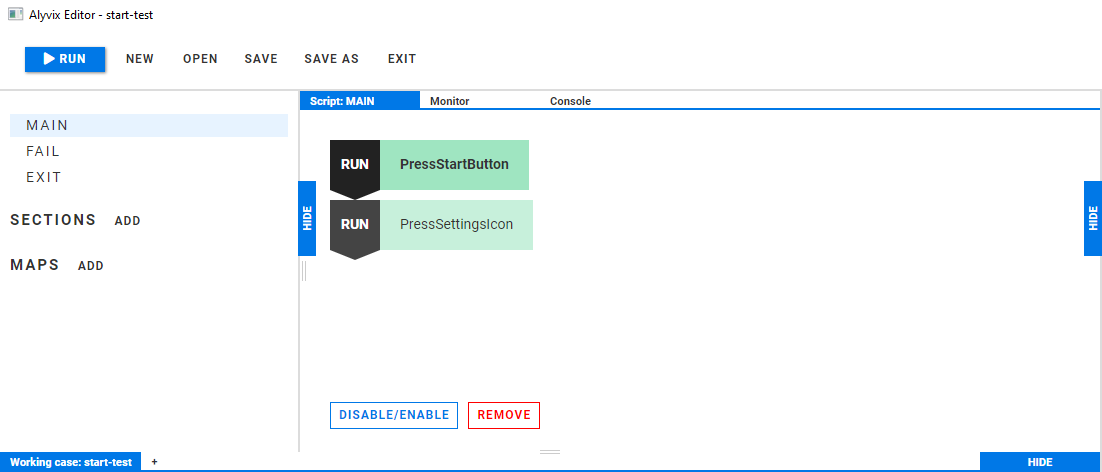
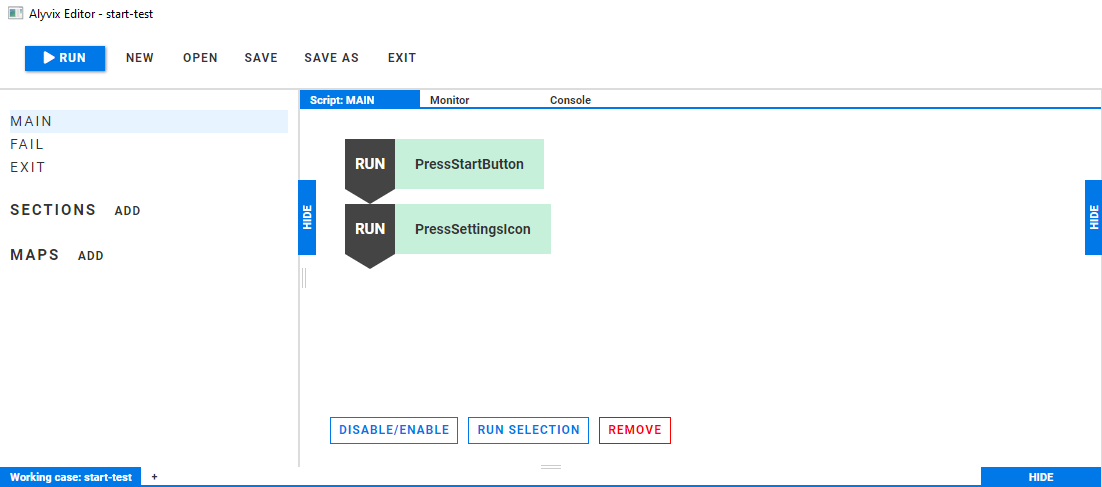
Update the screenshots in the first part of the Test Case Building section for 3.1.0.

diff --git a/test_case_building/editor_interface_overview.rst b/test_case_building/editor_interface_overview.rst
@@ -1,6 +1,6 @@
 :author: Charles Callaway
 :date: 07-01-2020
-:modified: 25-05-2020
+:modified: 10-06-2020
 :tags: editor, gui, overview
 :lang: en-US
 :translation: false
@@ -34,7 +34,7 @@ use the following command:
 
    C:\Alyvix\testcases> alyvix_editor -f <alyvix-file-name>
 
-This loads the Editor interface, which has the following elements:
+This loads the Editor interface, whose layout has the following elements:
 
 .. image:: images/ae_full_interface_numbered.png
    :class: image-boxshadow
@@ -46,9 +46,9 @@ This loads the Editor interface, which has the following elements:
 #. The Editor panel, consisting of the
    :ref:`Script Management panel <alyvix_editor_script_mgmt_top>` (left)
    and the :ref:`Scripting panel <alyvix_editor_scripting_panel_top>` (right)
-#. The :ref:`Selector <alyvix_selector_interface_top>` pane, where :glossdef:`test case objects`
+#. The :ref:`Selector <alyvix_selector_interface_top>` pane, containing :glossdef:`test case objects`
    :rawhtml:`<a href="../glossary.html#glossary-test-case-object"><i class="fa fa-tiny fa-question-circle"></i></a>`
-   can be dragged from and then dropped into the Scripting panel
+   that can be dragged to the Scripting panel
 #. The :ref:`Designer <alyvix_designer_interface_overview>` pane, which shows the details of
    the currently selected test case object
 
@@ -77,20 +77,21 @@ This loads the Editor interface, which has the following elements:
    that can be used as subroutines within any of the principal scripts
 #. The :ref:`Maps <alyvix_editor_interface_maps>` list, containing user-defined :glossdef:`maps`
    :rawhtml:`<a href="../glossary.html#glossary-map"><i class="fa fa-tiny fa-question-circle"></i></a>`
-   where a script can be called multiple times, once for each key in the map that is then passed
-   as an argument to the named script
+   (consisting of keys and one or more values for each key) that can be used either by a script
+   via :ref:`looping <alyvix_editor_scripting_node_expressions>`, or to insert values in a
+   :ref:`String <alyvix_designer_options_strings_top>` field.
 #. The scripting mode selector, containing the :guilabel:`Script` tab to
    :ref:`display the currently selected script or map <alyvix_editor_scripting_panel_top>`,
    the :guilabel:`Monitor` tab to
-   :ref:`show the screen capture <alyvix_editor_interface_monitor>`
-   of Selector's current test case object, and the :guilabel:`Console` tab to
-   :ref:`show the output <alyvix_editor_run_script>`
+   :ref:`show the screen capture <alyvix_editor_interface_monitor>` of Selector's current test case
+   object, and the :guilabel:`Console` tab to
+   :ref:`show the output along with any potential failure causes<alyvix_editor_run_script>`
    after running the test case script from within Alyvix Editor
-#. The :ref:`scripting panel <alyvix_editor_scripting_panel_top>`, which contains the individual
-   scripting elements, placed there using Selector
+#. The :ref:`scripting panel <alyvix_editor_scripting_panel_top>`, containing the individual
+   scripting nodes
 #. The script properties and actions, where you can enable, disable or remove individual script
    elements that have been dropped into the scripting panel
-#. Panel resizing controls allowing you to resize, minimize, or restore the three peripheral
+#. Panel resizing controls, allowing you to resize, minimize, or restore the three peripheral
    panels
 
 
@@ -125,7 +126,6 @@ This loads the Editor interface, which has the following elements:
 
 
 
-
 .. _alyvix_editor_run_script:
 
 .. topic::  Launching Alyvix Robot from Alyvix Editor
@@ -145,8 +145,15 @@ can be found in the :bbutton:`Console` tab at the top of Editor's
    :class: image-with-border
    :alt: The results of running the script in Alyvix Editor
 
-In addition, if the a failure was caused by a simple sequential scripting node, then the
+In addition, if a failure was caused by a simple sequential scripting node, then the
 annotated screenshot describing the failure will be displayed below the output in the
 Console tab.
+
+.. todo::  Example + description of when there is a failure
+
+   * Include screenshot
+   * Selection doesn't appear
+   * Subselection does appear with a box and "!"
+   * What about subselection on a different group, is the color different?
 
 Note that currently the verbosity level for Alyvix Robot cannot be set within Editor.

diff --git a/test_case_execution.rst b/test_case_execution.rst
@@ -1,6 +1,6 @@
 :author: Charles Callaway
 :date: 06-12-2019
-:modified: 26-05-2020
+:modified: 10-06-2020
 :tags: robot, execution, test cases
 :lang: en-US
 :translation: false
@@ -93,7 +93,7 @@ The following options are available:
 | Option        | Alias | Argument | Description                                               |
 +---------------+-------+----------+-----------------------------------------------------------+
 | -\\-args      | -a    | *<strs>* | Supply one or more strings to use in the                  |
-|               |       |          | :ref:`String <alyvix_designer_options_strings>`           |
+|               |       |          | :ref:`String <alyvix_designer_options_strings_top>`       |
 |               |       |          | field of a test case object in Designer                   |
 +---------------+-------+----------+-----------------------------------------------------------+
 | -\\-filename  | -f    | *<name>* | Supply the file name with or without extension            |
@@ -305,8 +305,8 @@ You can also decrypt a cipher as follows:
 
    alyvix_cipher -d <text_string_to_decrypt> -k <private_key>
 
-To use the encrypted text string, put it in the :ref:`string box <alyvix_designer_options_strings>`
-of an object component.
+To use the encrypted text string, put it in the
+:ref:`string box <alyvix_designer_options_strings_top>` of an object component.
 
 You can then run a test case with encrypted strings by supplying the private key:
 

diff --git a/release_notes/release_notes_31.rst b/release_notes/release_notes_31.rst
@@ -1,6 +1,6 @@
 :author: Charles Callaway
 :date: 08-06-2020
-:modified: 08-06-2020
+:modified: 10-06-2020
 :tags: release notes
 :lang: en-US
 :translation: false
@@ -32,14 +32,14 @@ Alyvix 3.1.x.
 
 **New Features**
 
-* :ref:`Multiple Measures <install_release_v3_1_0>`:  Description
-* :ref:`Faster Testing <install_release_v3_1_0>`:  Description
-* :ref:`Regrab Screen Captures <install_release_v3_1_0>`:  Description
+* :ref:`Multiple Measures <release_notes_v3_1_0>`:  Description
+* :ref:`Faster Testing <release_notes_v3_1_0>`:  Description
+* :ref:`Regrab Screen Captures <release_notes_v3_1_0>`:  Description
 
 **Improvements**
 
-* *Restructured CLI and Map Arguments:*  :ref:`Description <install_release_v3_1_0>`
-* *Better Interface Controls:*  :ref:`Description <install_release_v3_1_0>`
+* *Restructured CLI and Map Arguments:*  :ref:`Description <release_notes_v3_1_0>`
+* *Better Interface Controls:*  :ref:`Description <release_notes_v3_1_0>`
 * *Improved User Experience:*  Description
 
 **Bug Fixes**

diff --git a/test_case_building/editor_script_mgmt.rst b/test_case_building/editor_script_mgmt.rst
@@ -1,6 +1,6 @@
 :author: Charles Callaway
 :date: 07-01-2020
-:modified: 26-05-2020
+:modified: 10-06-2020
 :tags: editor, script, management
 :lang: en-US
 :translation: false
@@ -30,7 +30,7 @@ necessary for creating complex behaviors.  The script management panel is divide
 * **Sections**, which are user-defined subroutines that can be used inside other scripts
 * **Maps** :rawhtml:`<a href="../glossary.html#glossary-map"><i class="fa fa-tiny fa-question-circle"></i></a>`,
   which are user-defined tables of keys and values that can be used to *(a)* take a :ref:`text
-  string scraped from the screen <alyvix_designer_options_strings>` and map it to another string,
+  string scraped from the screen <alyvix_designer_options_strings_top>` and map it to another string,
   or *(b)* loop over a :glossdef:`test case object`
   :rawhtml:`<a href="../glossary.html#glossary-test-case-object"><i class="fa fa-tiny fa-question-circle"></i></a>`
   (using the :ref:`FOR <alyvix_editor_scripting_node_expressions>`

diff --git a/test_case_building/designer_options.rst b/test_case_building/designer_options.rst
@@ -1,6 +1,6 @@
 :author: Charles Callaway
 :date: 05-12-2019
-:modified: 20-02-2020
+:modified: 10-06-2020
 :tags: designer
 :lang: en-US
 :translation: false
@@ -22,7 +22,7 @@ The parameters and settings for Alyvix Designer are divided into:
 * :ref:`Component Options <alyvix_designer_options_components>`, which are associated with a
   particular visual component, describing how it should be recognized on the screen and
   interacted with
-* The :ref:`String Field <alyvix_designer_options_strings>`, a sophisticated component option
+* The :ref:`String Field <alyvix_designer_options_strings_top>`, a sophisticated component option
   that allows you to compose both simple strings and complex templated strings, and either insert
   them into a GUI component like a text field, simulate a menu action or pressing a special key
 

diff --git a/test_case_building/editor_scripting_panel.rst b/test_case_building/editor_scripting_panel.rst
@@ -1,6 +1,6 @@
 :author: Charles Callaway
 :date: 07-01-2020
-:modified: 26-05-2020
+:modified: 10-06-2020
 :tags: editor, script, blocks, run, loop
 :lang: en-US
 :translation: false
@@ -71,7 +71,7 @@ There are four modes for scripting nodes that can be used in the scripting panel
 
 .. rst-class:: bignums
 
-#. *Run* --- Simply run the test case object in sequence, one after another.
+#. *Sequential Run* --- Simply run the test case object, then continue to the next one.
 
    ..
 

diff --git a/test_case_building/designer_strings.rst b/test_case_building/designer_strings.rst
@@ -1,6 +1,6 @@
 :author: Charles Callaway
 :date: 05-12-2019
-:modified: 26-05-2020
+:modified: 10-06-2020
 :tags: designer
 :lang: en-US
 :translation: false
@@ -8,7 +8,7 @@
 
 .. include:: ../sphinx-roles.txt
 
-.. _alyvix_designer_options_strings:
+.. _alyvix_designer_options_strings_top:
 
 ================
 The String Field
